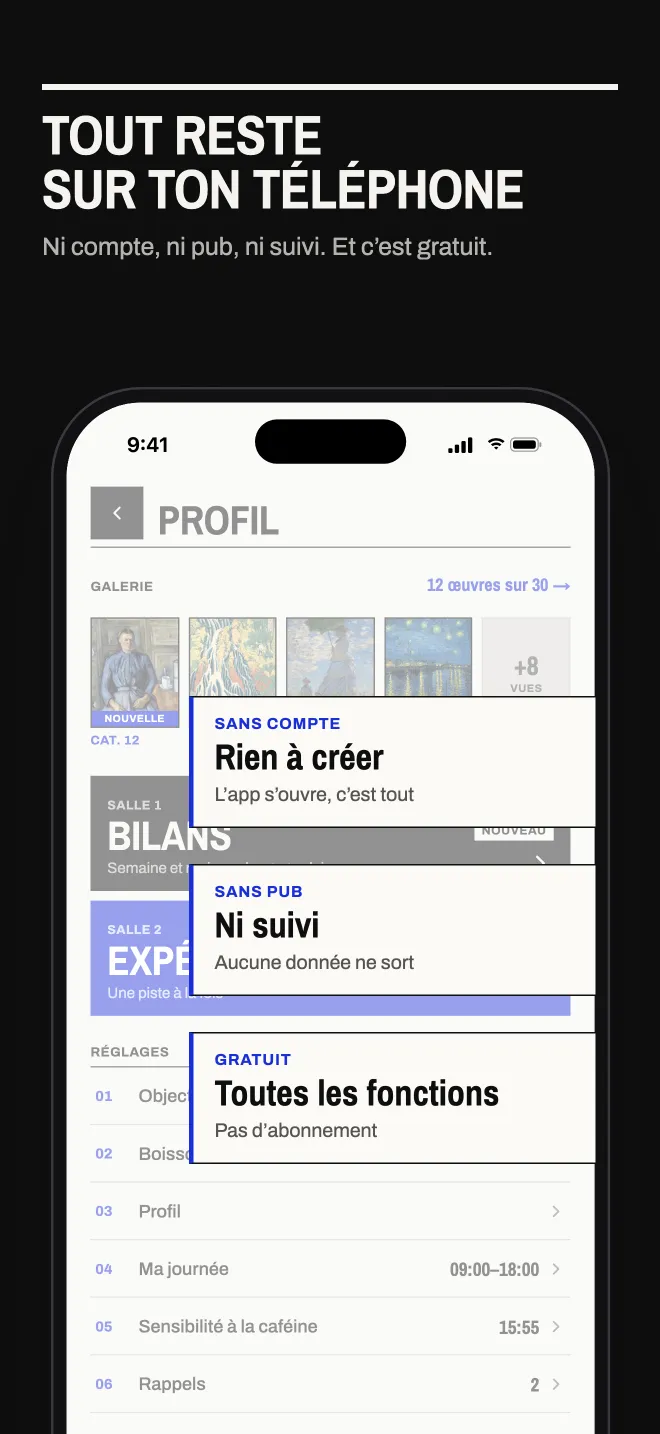
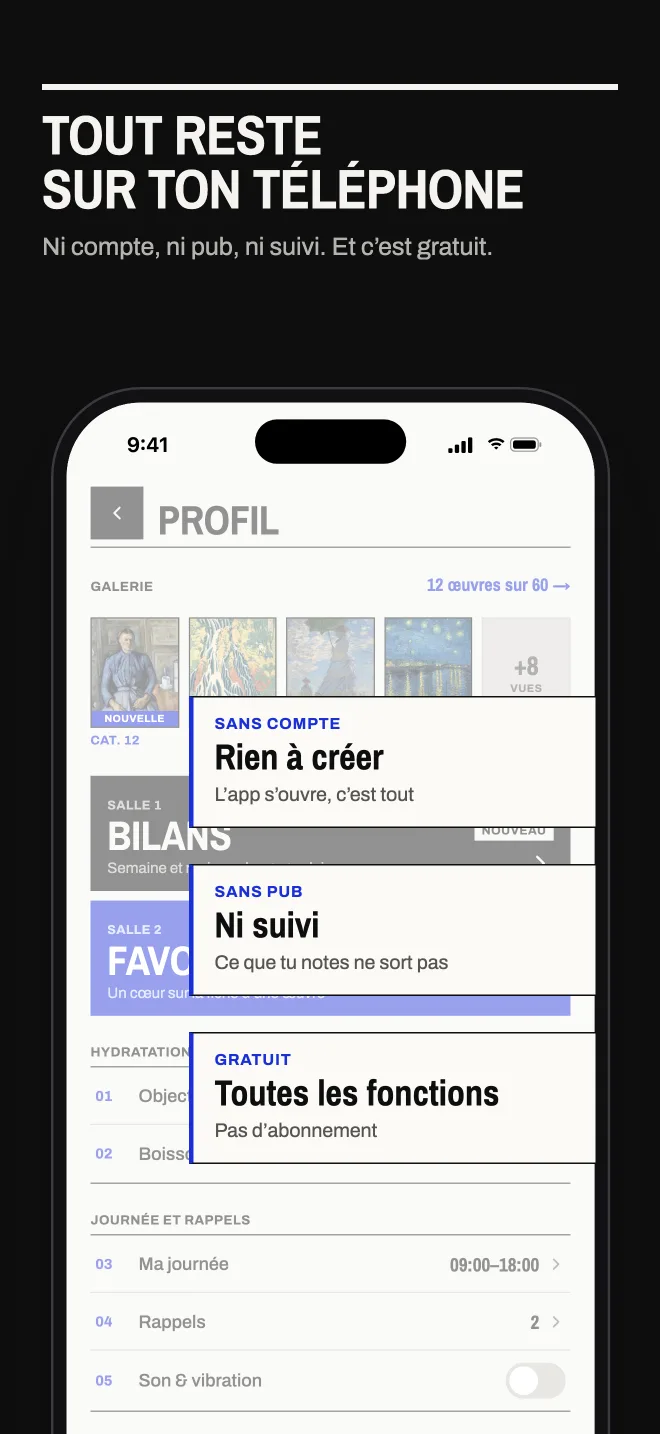
Eau, Art & Café : confidentialité avec RevenueCat, pages à jour de l'app soumise
- Confidentialité : un seul tiers, RevenueCat, pour l'achat facultatif « Offrir un café », avec ce qu'il reçoit et ne reçoit pas.
- Accueil, fonctionnalités, tarifs, assistance, à propos et guides : nom « Eau, Art & Café », soixante œuvres, demi-vie fixe de 5 h, plus de question du soir ni de sensibilité, « Offrir un café » expliqué.
- Thé noir à 50 mg, comme le catalogue de l'app.
- Captures de la vitrine régénérées.

diff --git a/src/data/apps.ts b/src/data/apps.ts
@@ -57,16 +57,18 @@ export const APPS: AppEntry[] = [
 	},
 	{
 		slug: 'eau-et-cafe',
-		name: 'Eau & Café',
+		name: 'Eau, Art & Café',
 		tagline: 'Ton eau et ton café en un geste, l’heure de ton dernier café, et une œuvre d’art par jour.',
 		category: 'Eau et caféine',
-		price: 'Gratuit',
+		price: 'Gratuit · café à offrir',
 		icon: '/apps/eau-et-cafe/icon.png',
 		preview: ['/apps/eau-et-cafe/ecrans/01-home.webp', '/apps/eau-et-cafe/ecrans/04-coffee.webp'],
 		accent: '#1B2FD6',
 		surface: '#EDEBE4',
 		ink: '#0E0E0E',
-		// Nouvelle fiche créée à la soumission : renseigner les URLs et l'identifiant ici.
+		// L'app reprend les fiches de Brimm (même identifiant com.brimm.app). À la sortie de la v2, renseigner :
+		// ios 'https://apps.apple.com/app/id6784258874', iosId '6784258874',
+		// android 'https://play.google.com/store/apps/details?id=com.brimm.app'.
 		stores: { ios: null, iosId: null, android: null },
 		privacy: '/eau-et-cafe/confidentialite',
 		support: '/eau-et-cafe/assistance',

diff --git a/src/data/drinks.ts b/src/data/drinks.ts
@@ -17,7 +17,7 @@ export const CAFFEINE_DRINKS: CaffeineDrink[] = [
 	{ id: 'lungo', name: 'Café allongé', ml: 200, caffeineMg: 90, cutoff: true },
 	{ id: 'latte', name: 'Latte / cappuccino', ml: 250, caffeineMg: 80, cutoff: true },
 	{ id: 'decaf', name: 'Déca', ml: 60, caffeineMg: 4 },
-	{ id: 'blacktea', name: 'Thé noir', ml: 250, caffeineMg: 40, cutoff: true },
+	{ id: 'blacktea', name: 'Thé noir', ml: 250, caffeineMg: 50, cutoff: true },
 	{ id: 'greentea', name: 'Thé vert', ml: 250, caffeineMg: 30 },
 	{ id: 'cola', name: 'Cola', ml: 330, caffeineMg: 32 },
 	{ id: 'colazero', name: 'Cola zéro', ml: 330, caffeineMg: 35 },

diff --git a/src/pages/eau-et-cafe/guides/cafe-et-sommeil.md b/src/pages/eau-et-cafe/guides/cafe-et-sommeil.md
@@ -25,7 +25,7 @@ faq:
     a: "Le décaféiné contient beaucoup moins de caféine qu'un café classique, mais pas zéro. Pour la plupart des gens, c'est une bonne option l'après-midi. Si tu es très sensible, regarde sa teneur dans le tableau des boissons."
   - q: "Pourquoi je m'endors bien mais je me réveille fatigué après un café le soir ?"
     a: "Dans l'étude de Drake, les participants ne percevaient pas toujours la perte de sommeil mesurée par l'appareil. On peut s'endormir sans difficulté et dormir pourtant moins longtemps ou moins profondément."
-pitch: "Eau & Café estime l'heure de ton dernier café d'après ton heure de coucher et ta sensibilité. Gratuite, sans compte, sans pub."
+pitch: "Eau, Art & Café estime l'heure de ton dernier café d'après ton heure de coucher et ce que tu as bu. Gratuite, sans compte, sans pub."
 ---
 
 Garde **au moins 6 heures** entre ton dernier café et ton coucher. C'est le délai que recommandent les auteurs d'une étude publiée en 2013, qui a mesuré l'effet de la caféine prise 0, 3 et 6 heures avant de dormir. Selon la vitesse à laquelle ton corps élimine la caféine, ton heure limite peut tomber en fin d'après-midi ou dès la fin de matinée.
@@ -74,7 +74,7 @@ Avec une boisson deux fois plus chargée, ou deux cafés, ces chiffres doublent.
 
 ## À quelle heure boire ton dernier café ?
 
-Pour transformer ces chiffres en heure limite, il faut choisir un seuil : la quantité de caféine qu'il est raisonnable d'avoir encore dans le sang au moment de te coucher. Eau & Café retient **30 mg** restants. Avec ce seuil, un café de 100 mg et un coucher à 23 h, l'estimation donne :
+Pour transformer ces chiffres en heure limite, il faut choisir un seuil : la quantité de caféine qu'il est raisonnable d'avoir encore dans le sang au moment de te coucher. Eau, Art & Café retient **30 mg** restants. Avec ce seuil, un café de 100 mg et un coucher à 23 h, l'estimation donne :
 
 - **sensibilité rapide** (demi-vie 3,5 h) : dernier café vers **17 h** ;
 - **sensibilité moyenne** (demi-vie 5 h) : dernier café vers **14 h 15** ;
@@ -97,4 +97,4 @@ Pour avoir ton heure à toi, utilise notre [calculateur de l'heure limite du der
 - **Pense aux autres sources** : thé, cola, boissons énergisantes et chocolat contiennent aussi de la caféine.
 - **Observe tes nuits sur quelques semaines** plutôt que de te fier à une seule soirée. Comme le montre l'étude de Drake, on ne perçoit pas toujours l'effet sur le moment.
 
-Si tu veux que ce calcul se fasse tout seul au fil de tes journées, [l'app Eau & Café](/eau-et-cafe) estime l'heure limite de ton dernier café d'après ton heure de coucher et la sensibilité que tu as choisie.
+Si tu veux que ce calcul se fasse tout seul au fil de tes journées, [l'app Eau, Art & Café](/eau-et-cafe) estime l'heure limite de ton dernier café d'après ton heure de coucher et ce que tu as vraiment bu, avec une demi-vie de 5 heures.

diff --git a/src/pages/eau-et-cafe/guides/demi-vie-cafeine.md b/src/pages/eau-et-cafe/guides/demi-vie-cafeine.md
@@ -27,7 +27,7 @@ faq:
     a: "Oui, la contraception orale ralentit l'élimination de la caféine. L'Institute of Medicine indique qu'elle peut aller jusqu'à doubler sa demi-vie."
   - q: "Au bout de combien de temps la caféine est-elle éliminée ?"
     a: "Il n'y a pas d'heure précise où elle disparaît : elle diminue de moitié à chaque demi-vie. Avec une demi-vie de 5 heures, il reste encore environ 12 % de la dose au bout de 15 heures. Le plus utile est de savoir combien il en reste à l'heure du coucher."
-pitch: "Eau & Café estime l'heure de ton dernier café d'après ton heure de coucher et ta sensibilité. Gratuite, sans compte, sans pub."
+pitch: "Eau, Art & Café estime l'heure de ton dernier café d'après ton heure de coucher et ce que tu as bu. Gratuite, sans compte, sans pub."
 ---
 
 La **demi-vie de la caféine** est le temps qu'il faut pour que la quantité de caféine dans ton sang diminue de moitié. Chez un adulte en bonne santé, elle est en moyenne d'**environ 5 heures**, selon la synthèse de l'Institute of Medicine américain. Mais elle varie énormément d'une personne à l'autre : de **1,5 à 9,5 heures**.
@@ -99,7 +99,7 @@ Sans prise de sang répétée, impossible de la mesurer précisément. Mais tu p
 - **Sensibilité moyenne** : un café après le début d'après-midi commence à se sentir le soir.
 - **Sensibilité lente** : même un café de midi peut retarder ton endormissement. Pense à la pilule, à la grossesse ou à certains traitements, qui ralentissent l'élimination.
 
-Eau & Café part de là : tu choisis une sensibilité, et l'app retient une demi-vie de 3,5, 5 ou 7 heures pour estimer combien de caféine il te reste au coucher. Tu peux faire le même calcul en ligne avec notre [calculateur de l'heure limite du dernier café](/eau-et-cafe/guides/heure-limite-cafe/) : il te donne une heure repère à partir de ton coucher.
+Eau, Art & Café part de là : l'app retient une demi-vie de 5 heures, la valeur médiane, pour estimer combien de caféine il te reste au coucher. Tu peux faire le même calcul en ligne avec notre [calculateur de l'heure limite du dernier café](/eau-et-cafe/guides/heure-limite-cafe/) : il te donne une heure repère à partir de ton coucher.
 
 ## Les repères de l'EFSA à garder en tête
 
